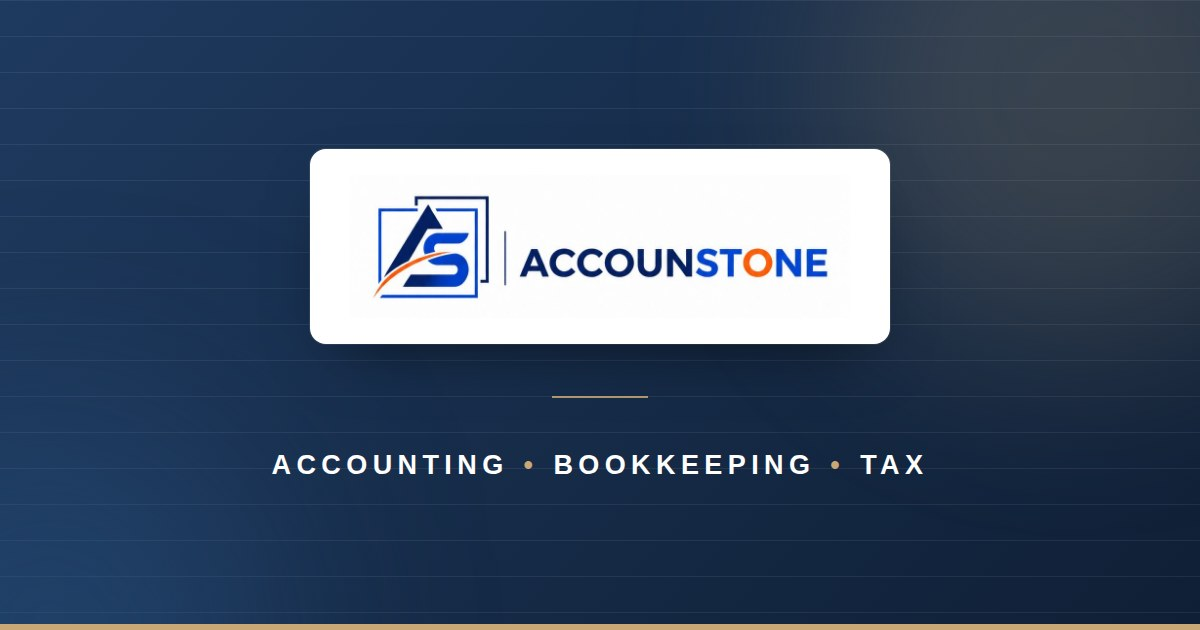
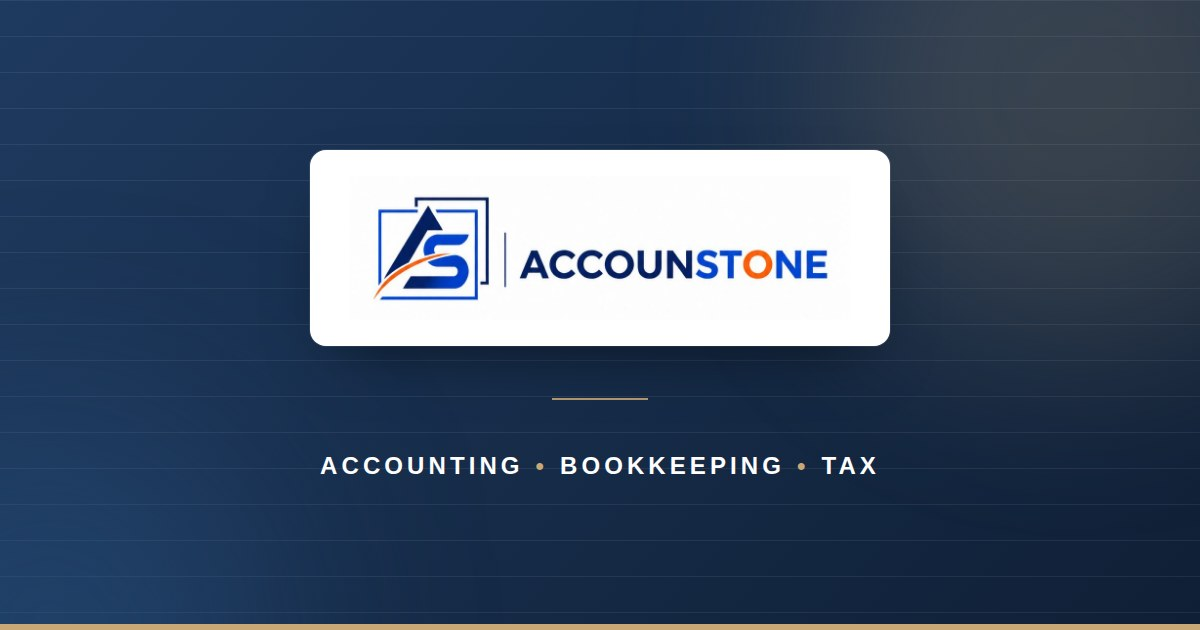
Make the link card survive a square crop, not just the 1.91:1 frame
Checking the card the way mobile clients actually render it found a real
failure: WhatsApp's compact preview crops a 1200x630 to the middle 630x630
square, and the strapline measured 657px. It lost the A of ACCOUNTING and the X
of TAX on every small mobile thumbnail.

The 1.91:1 safe area is not the only safe area. The line is now 560px and the
logo plate 580px, so both clear the 630px square with margin. Measured with a
script rather than eyeballed, and the constraint is written into the template so
the next person changing the type knows there are two frames to satisfy.

Verified at square 130px and 190px and as an iPhone/iPad rich preview: the full
strapline reads in all three. 46KB.

Claude-Session: https://claude.ai/code/session_01SB9Z2W9T5V8Bjp4XBu4SxL

diff --git a/scripts/og-image/card.html b/scripts/og-image/card.html
@@ -27,7 +27,10 @@
   - No tagline, no slogan, no region, no figure, no contact detail. The only
     text is the lockup's own wordmark and "Accounting / Bookkeeping / Tax".
   - Everything stays inside the centre so a platform crop cannot cut it, and
-    nothing depends on small text.
+    nothing depends on small text. Two safe areas, not one: the 1.91:1 frame
+    most platforms show, AND the middle 630x630 square that small mobile
+    thumbnails crop to. The plate is 580px and the strapline under 600px, so
+    both survive the square. Re-measure with a script if you change either.
 -->
 <!doctype html>
 <meta charset="utf-8">
@@ -67,9 +70,14 @@
      point, so it does not appear except inside the mark itself. */
   .rule { width:96px; height:2px; background:#c9a876; opacity:0.85; }
 
-  .line { color:#ffffff; font-size:27px; font-weight:600;
-    letter-spacing:0.2em; text-transform:uppercase; white-space:nowrap; }
-  .dot { color:#c9a876; padding:0 15px; }
+  /* Sized so the whole line survives a SQUARE crop. Small mobile thumbnails
+     (WhatsApp's compact preview) take the middle 630x630 of a 1200x630 card,
+     not the 1.91:1 frame. At 27px/0.2em this line measured 657px and lost the
+     A of ACCOUNTING and the X of TAX. Anything here must stay under ~600px —
+     measure it, do not eyeball it. */
+  .line { color:#ffffff; font-size:24px; font-weight:600;
+    letter-spacing:0.17em; text-transform:uppercase; white-space:nowrap; }
+  .dot { color:#c9a876; padding:0 12px; }
 
   /* the gold ground rule every Accounstone illustration ends on */
   .base { position:absolute; left:0; right:0; bottom:0; height:6px; background:#c9a876; }
